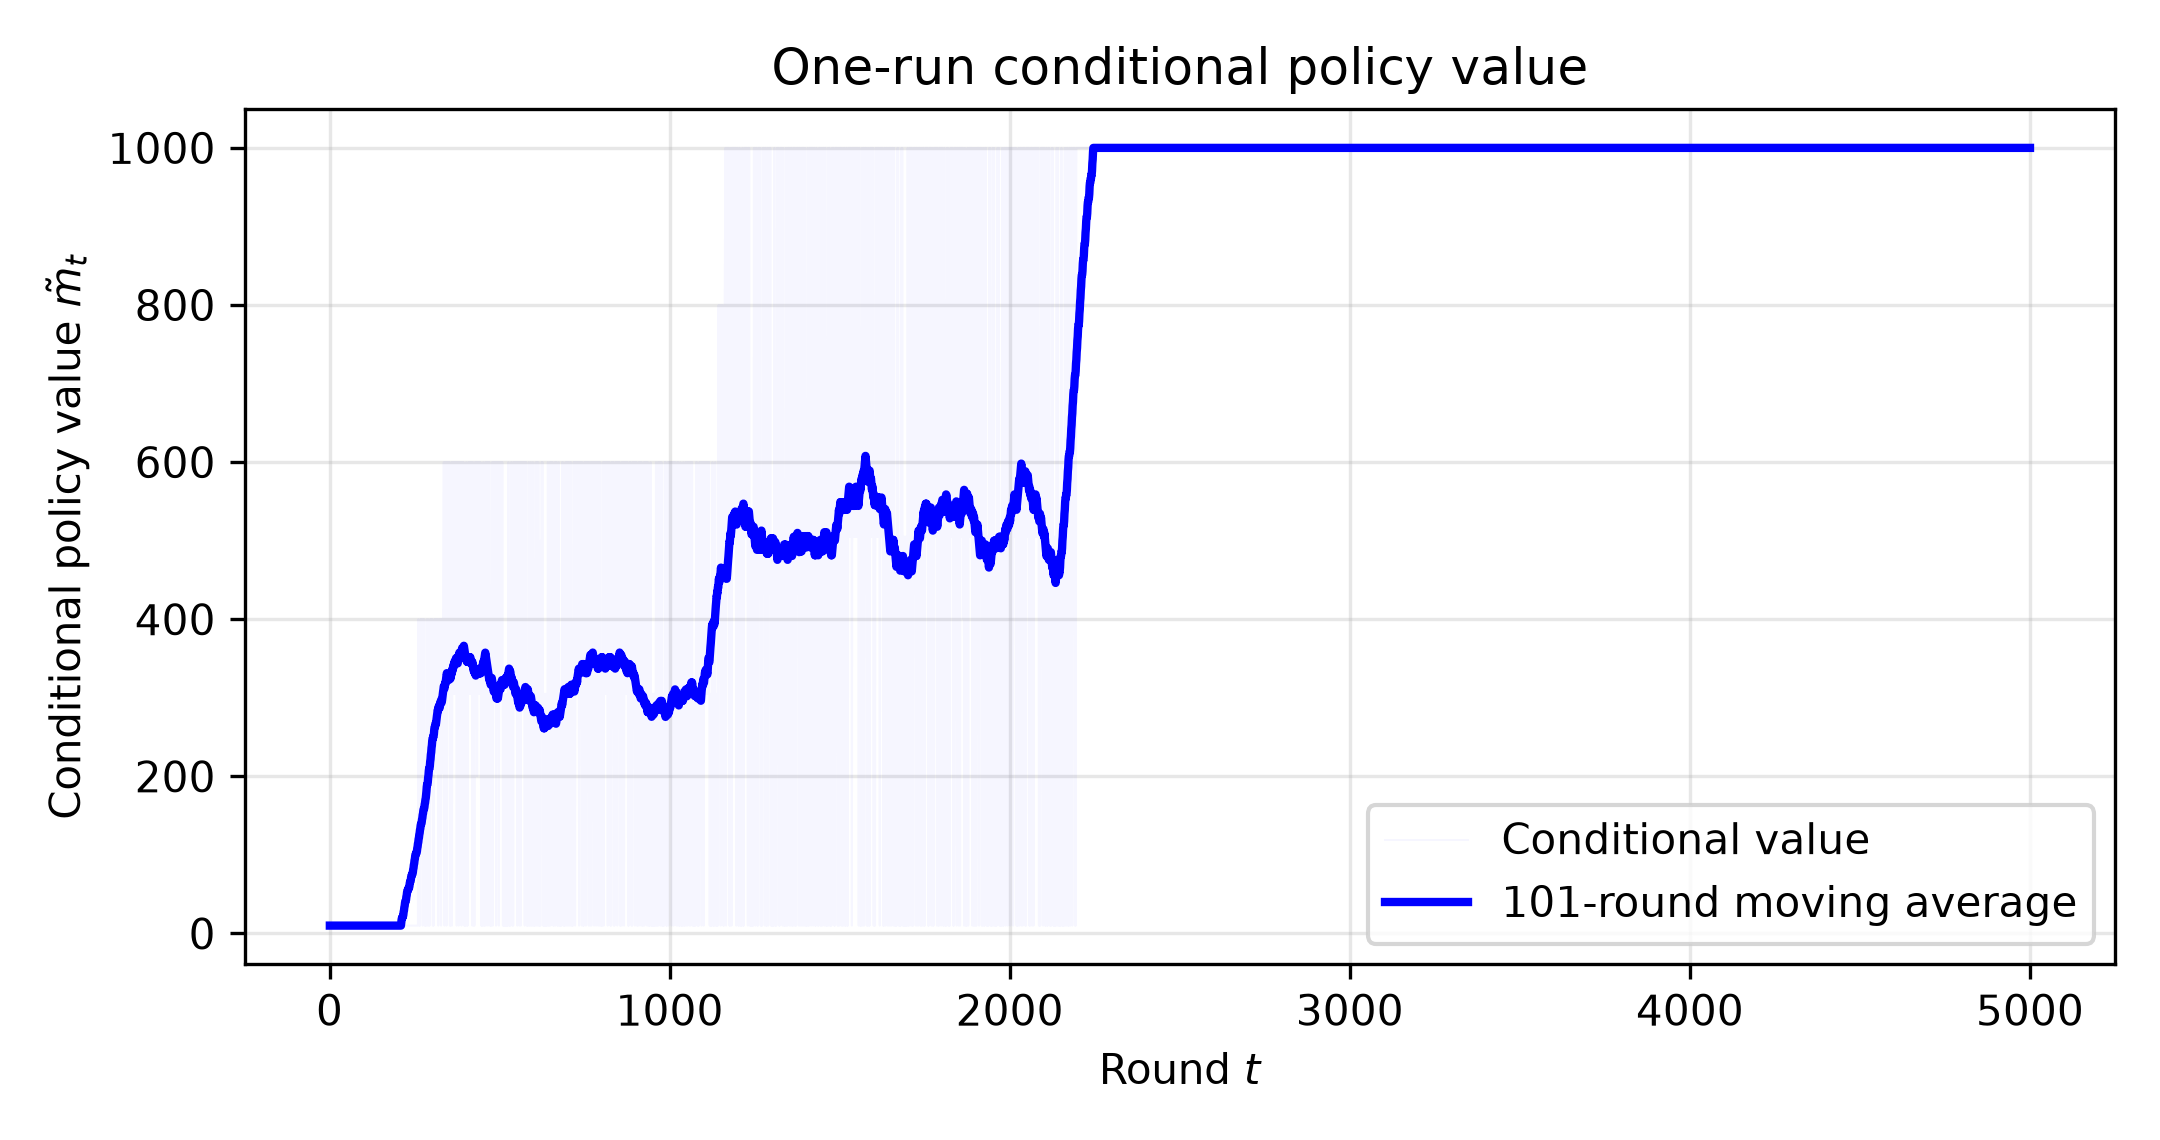
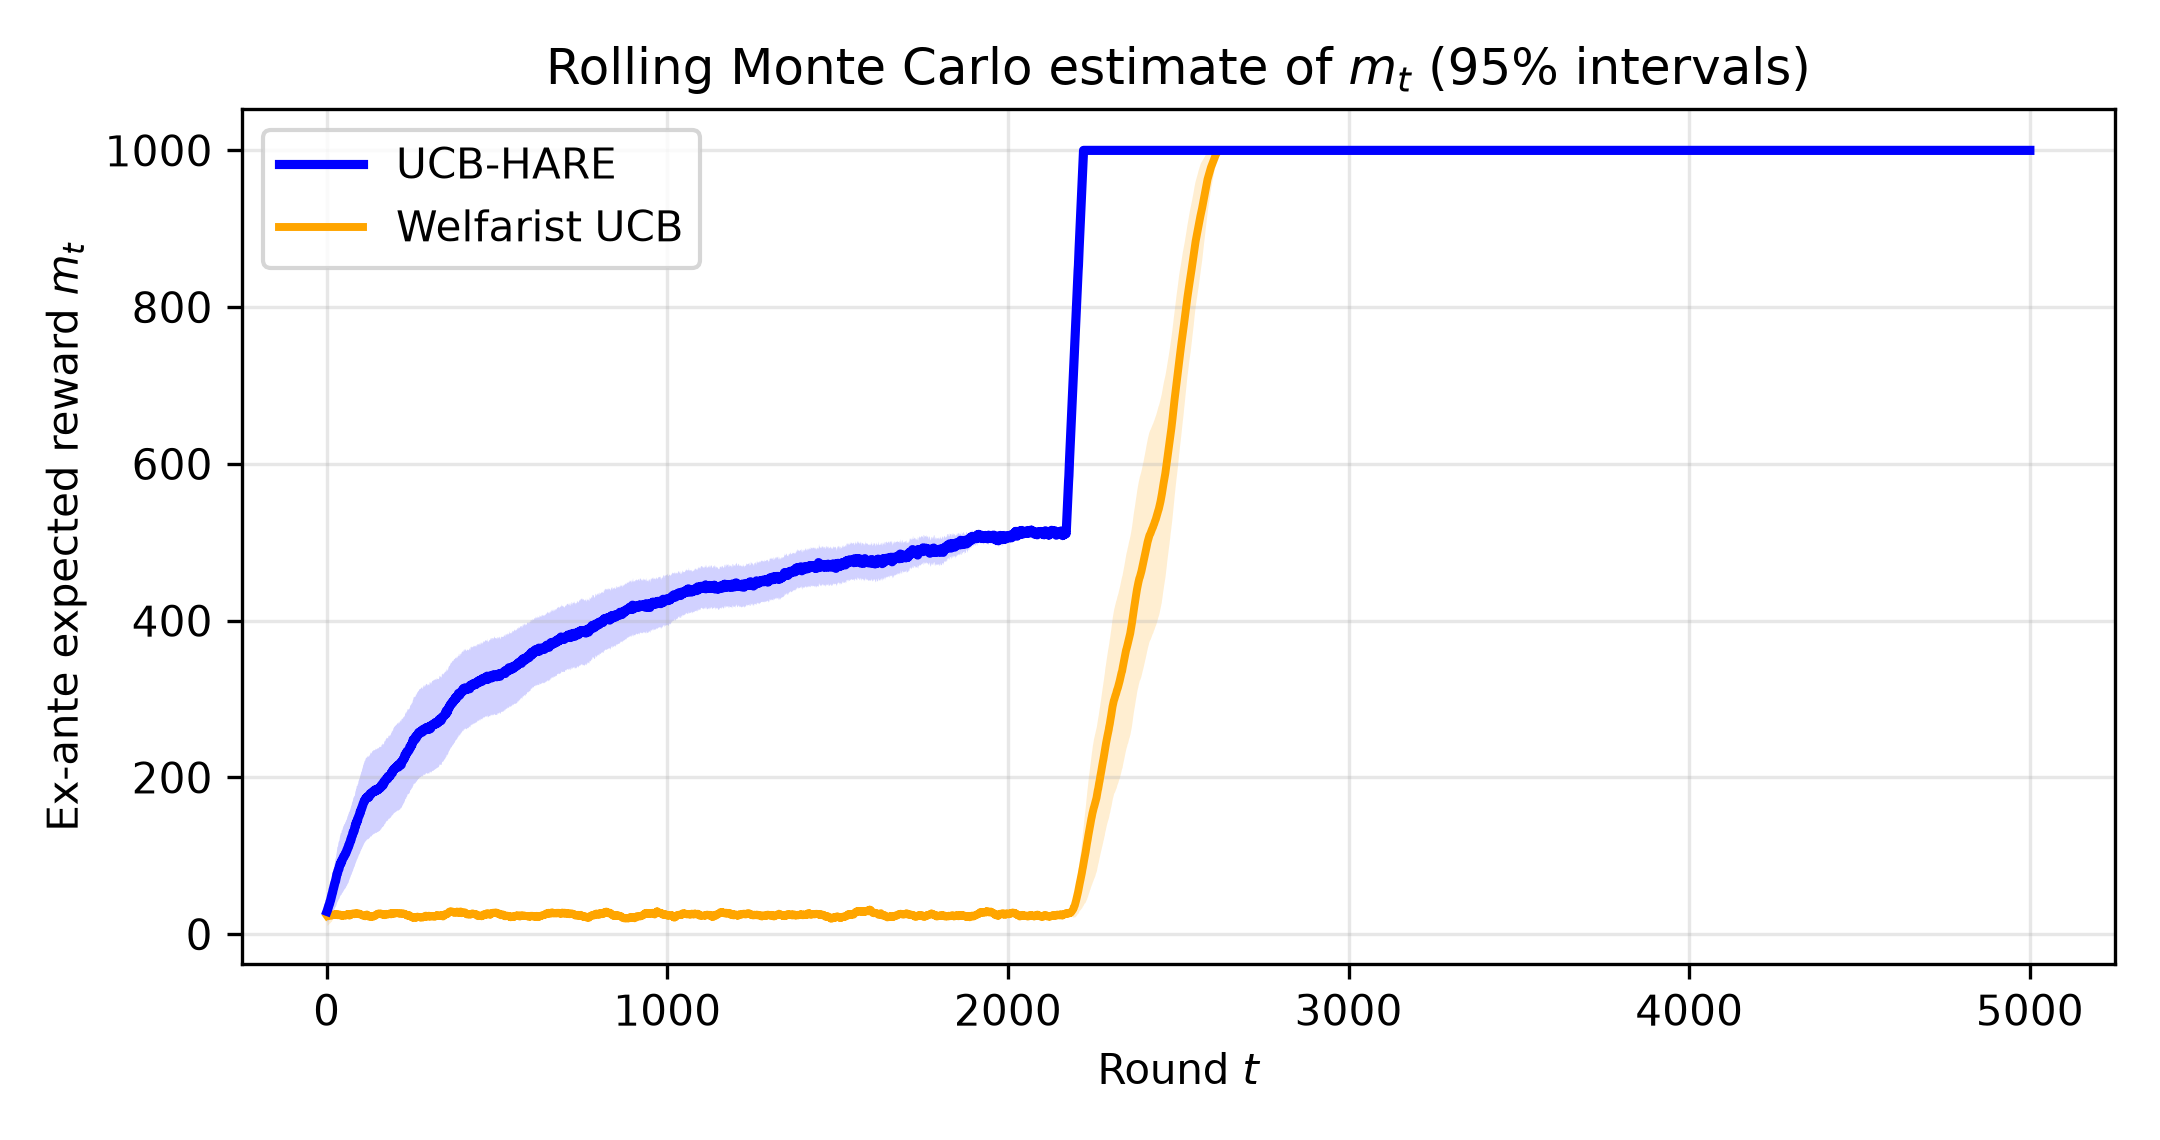
mroe changes

diff --git a/utils/plotman.py b/utils/plotman.py
@@ -164,7 +164,7 @@ def plot_regret_vs_time_multi_k(results_dict, p, filename="regret_vs_time.png"):
     ax.set_yscale("log")
     ax.set_xlabel("Round $t$ (log scale)", fontsize=14)
     ax.set_ylabel(rf"${p}$-mean regret (log scale)", fontsize=14)
-    ax.set_title(rf"Convergence Analysis ($p = {p}$)", fontsize=15)
+    ax.set_title(rf"Fairness level ($p = {p}$)", fontsize=15)
     ax.tick_params(axis="both", labelsize=12)
     ax.legend(loc="lower left", prop={"size": 12})
     ax.grid(True, which="both", linestyle="--", alpha=0.3)
